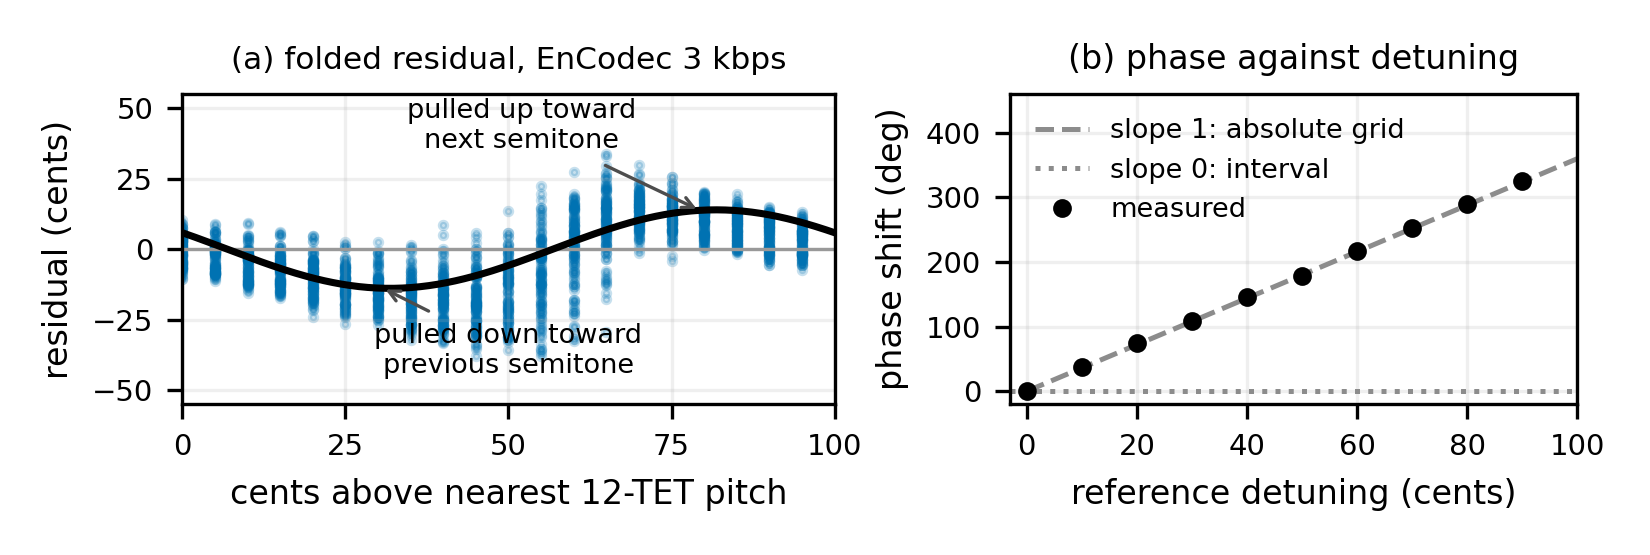
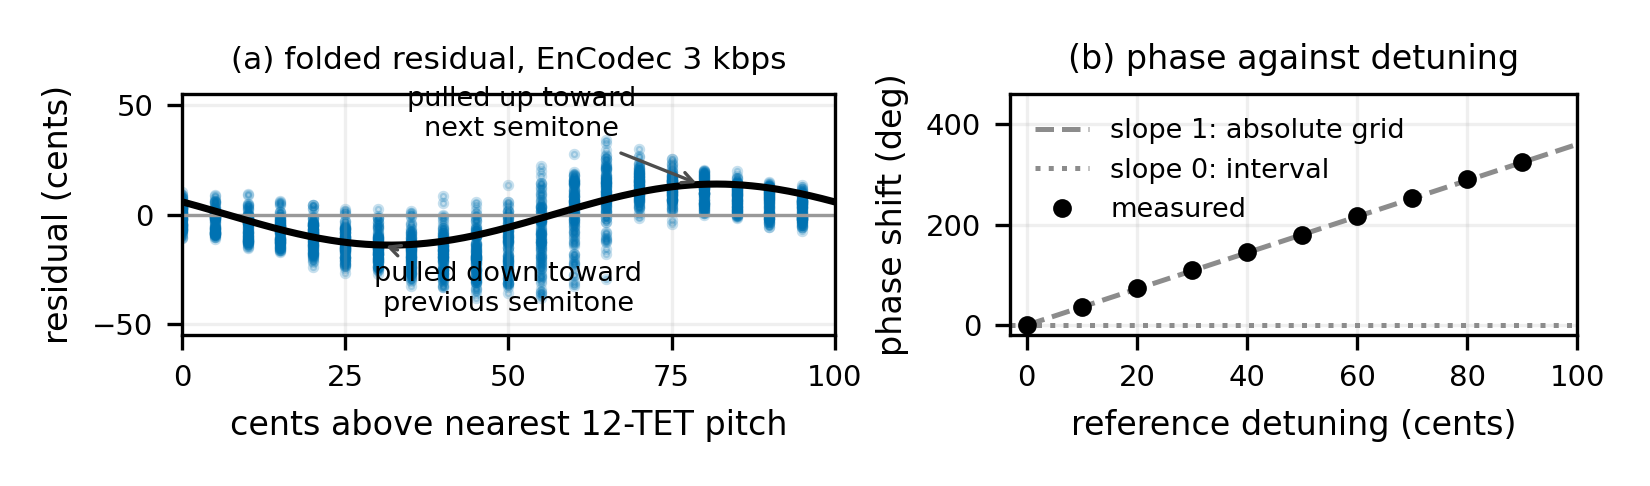
Overview figure: shorter again

diff --git a/analysis/make_figures.py b/analysis/make_figures.py
@@ -230,7 +230,7 @@ def fig_overview():
     f1 = d["f1_nominal"]
     offsets_all = (1200.0 * np.log2(f1 / 440.0)) % 100.0
 
-    fig, (ax, ax2) = plt.subplots(1, 2, figsize=(5.5, 1.85),
+    fig, (ax, ax2) = plt.subplots(1, 2, figsize=(5.5, 1.62),
                                   gridspec_kw={"width_ratios": [1.15, 1]})
     # (a) folded residual, on-grid reference
     m = keep & (np.round(offsets_all, 3) == 0.0)
